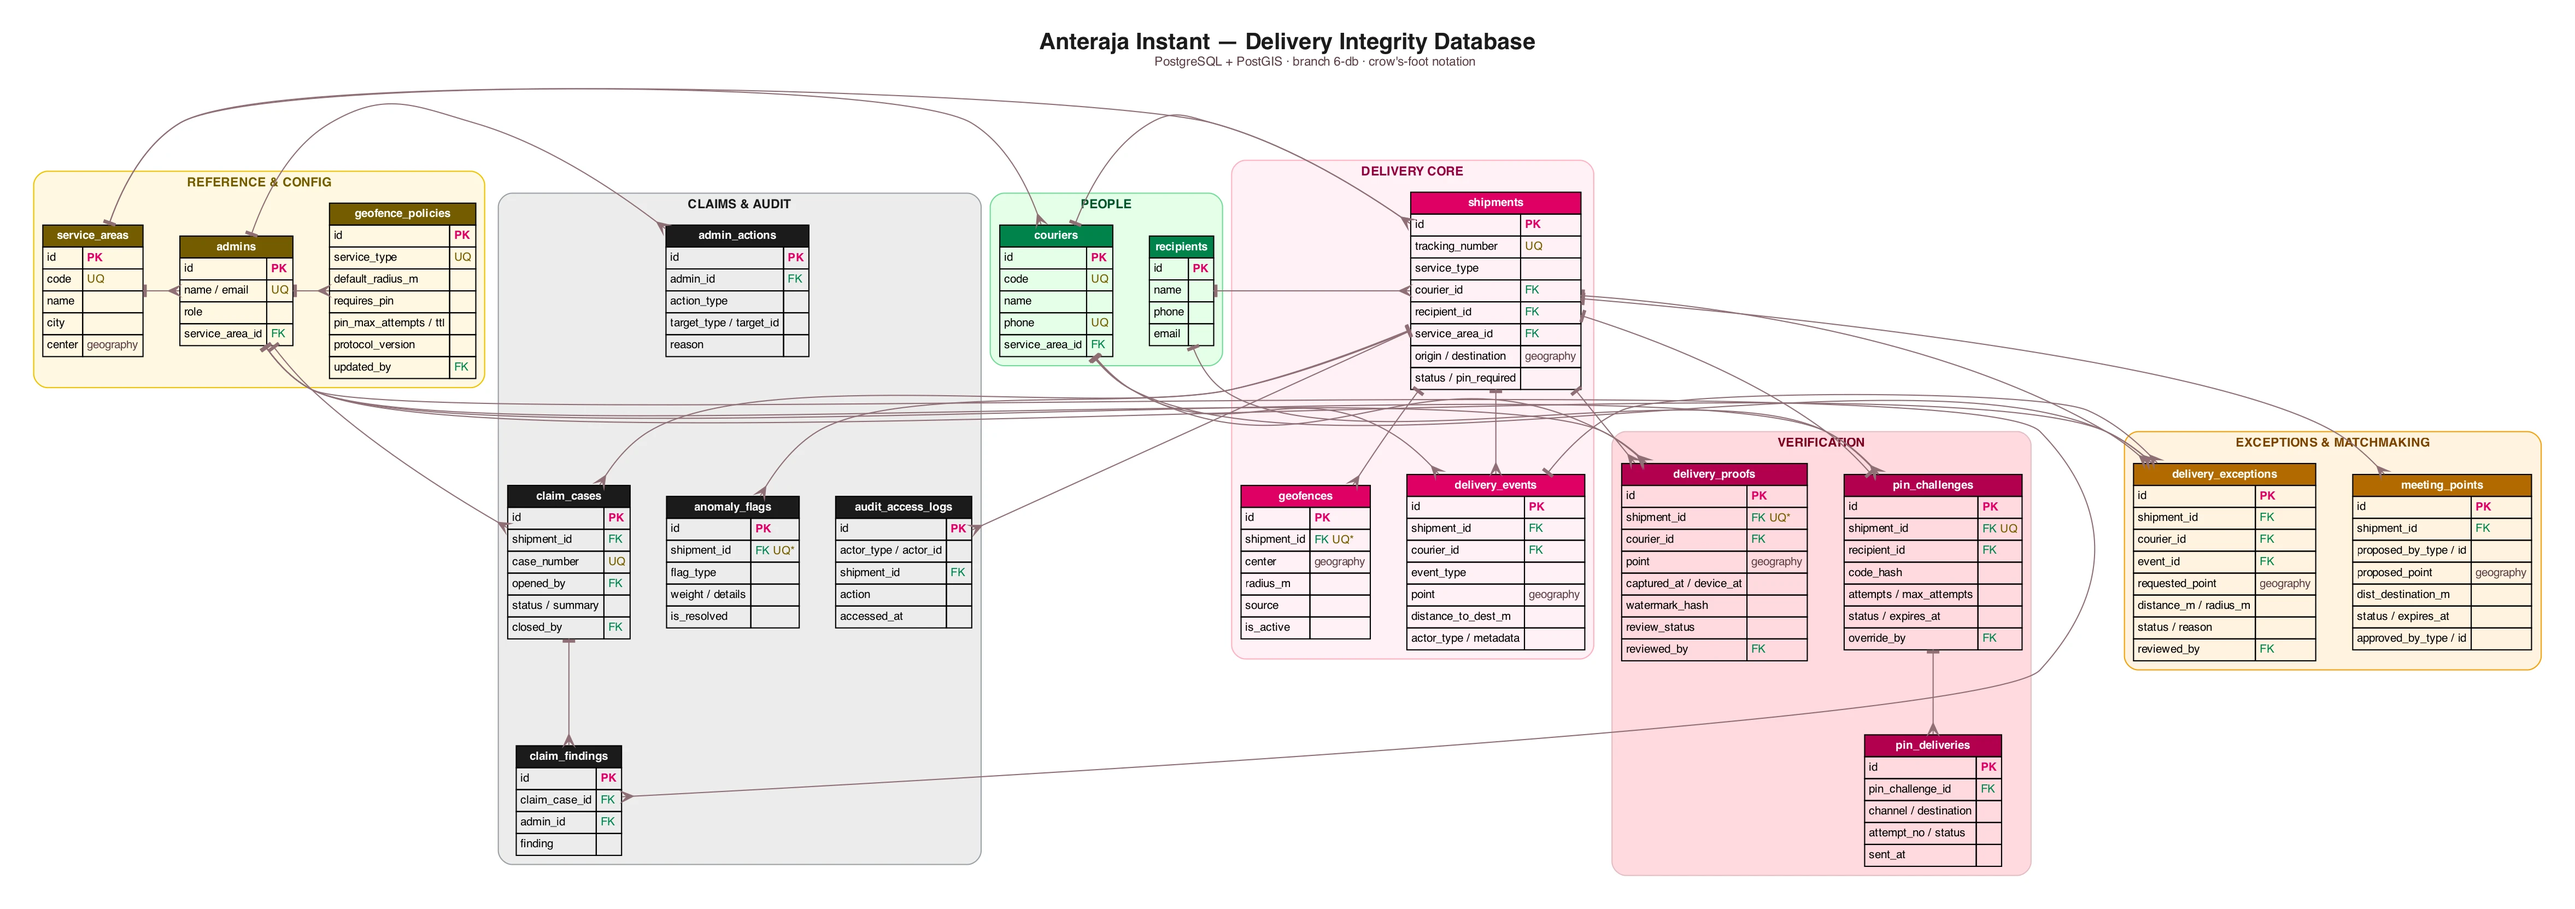
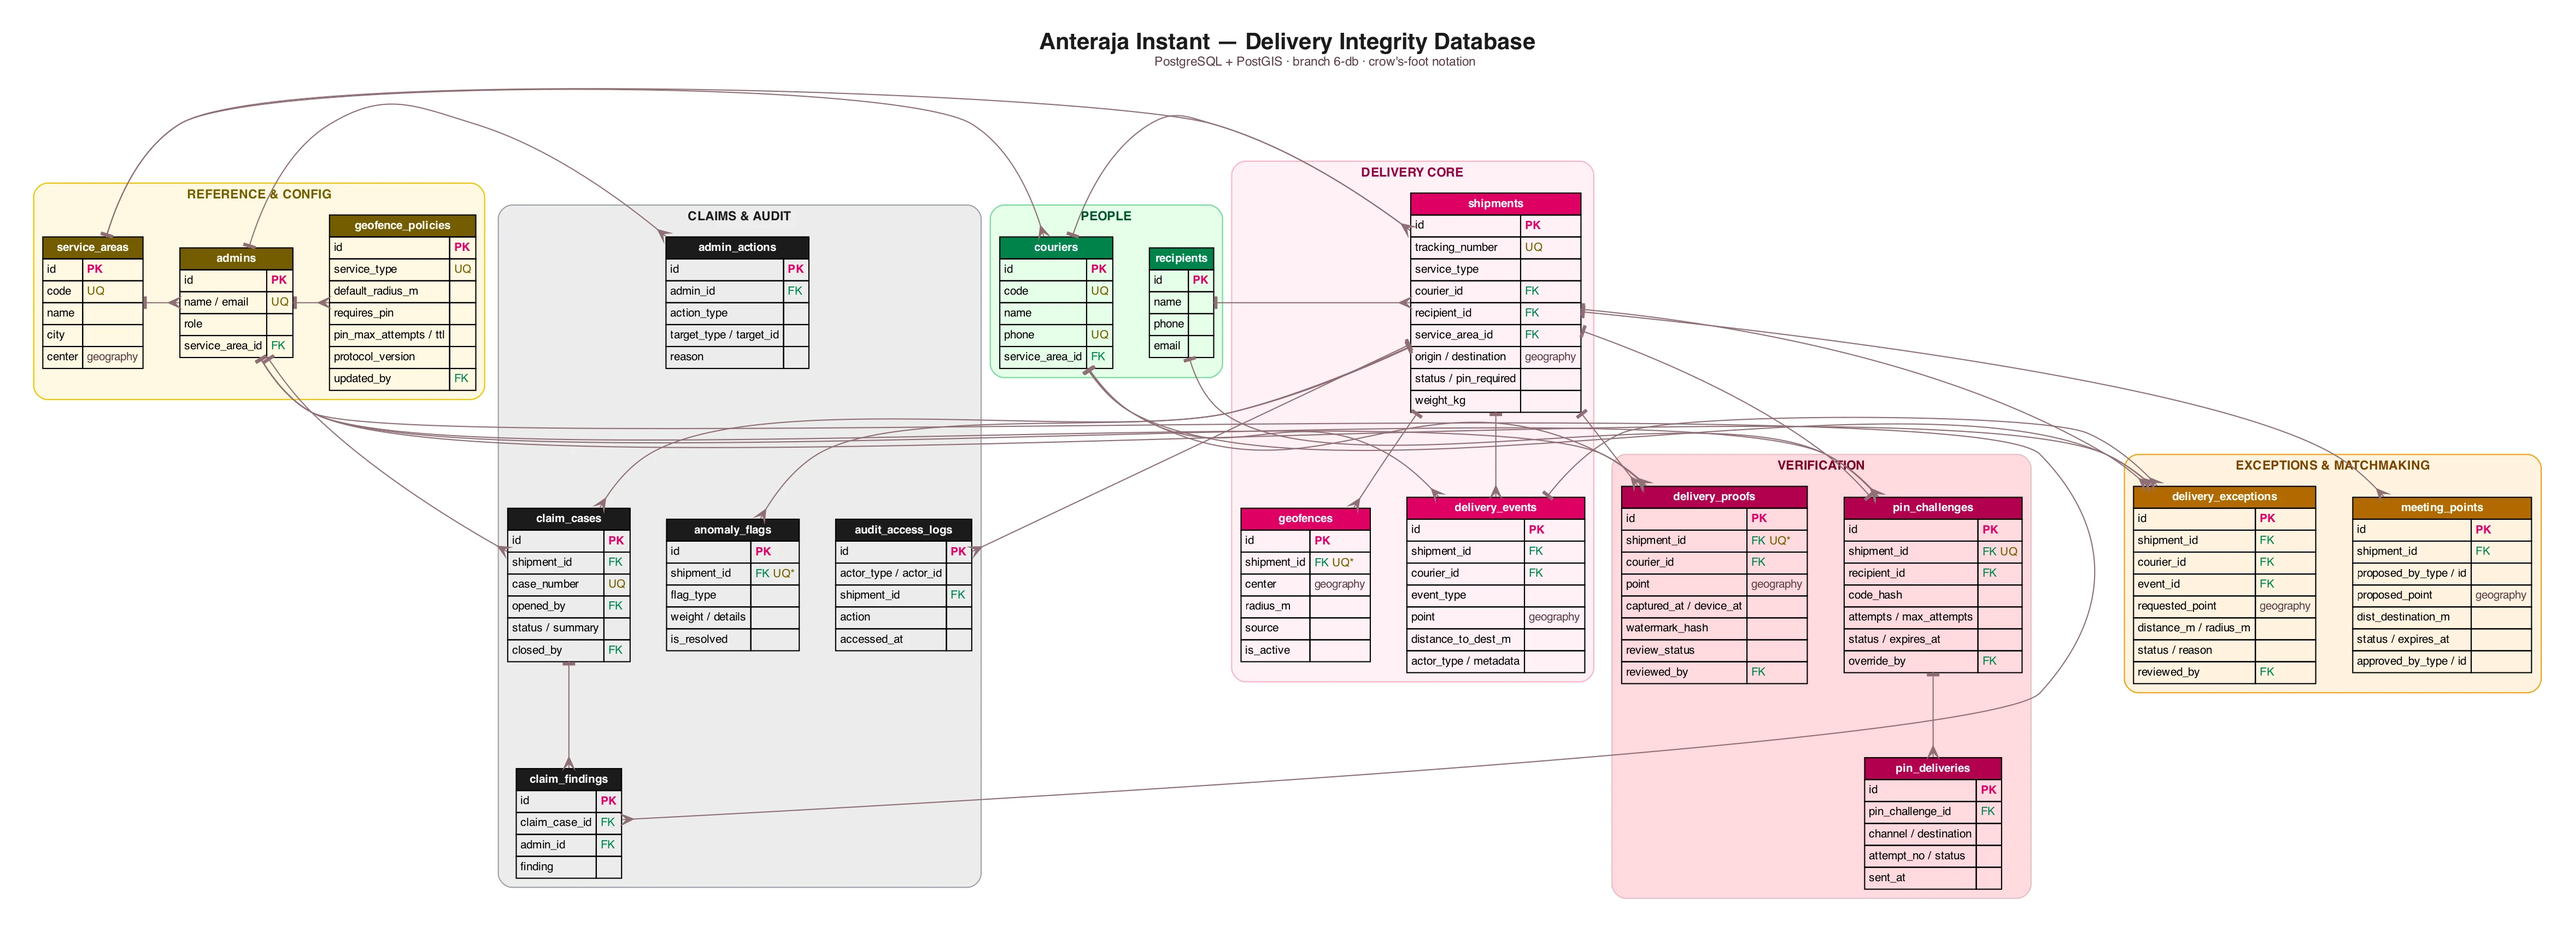
feat(db): add shipments.weight_kg for weight-based analysis

diff --git a/database/migrations/2026_10_02_000000_add_weight_kg_to_shipments.php b/database/migrations/2026_10_02_000000_add_weight_kg_to_shipments.php
@@ -1,0 +1,37 @@
+<?php
+
+use Illuminate\Database\Migrations\Migration;
+use Illuminate\Database\Schema\Blueprint;
+use Illuminate\Support\Facades\DB;
+use Illuminate\Support\Facades\Schema;
+
+return new class extends Migration
+{
+    /**
+     * Deterministic demo weight (0.50-29.99 kg) derived from the tracking
+     * number, so this migration and both seed scripts agree on every row.
+     */
+    private const WEIGHT_EXPRESSION = "round((0.50 + (abs(('x' || substr(md5(tracking_number), 1, 8))::bit(32)::int) % 2950) / 100.0)::numeric, 2)";
+
+    public function up(): void
+    {
+        if (Schema::hasColumn('shipments', 'weight_kg')) {
+            return;
+        }
+
+        Schema::table('shipments', function (Blueprint $table) {
+            $table->decimal('weight_kg', 6, 2)->default(1.00);
+        });
+
+        DB::statement('ALTER TABLE shipments ADD CONSTRAINT shipments_weight_kg_check CHECK (weight_kg > 0)');
+
+        DB::statement('UPDATE shipments SET weight_kg = '.self::WEIGHT_EXPRESSION);
+    }
+
+    public function down(): void
+    {
+        Schema::table('shipments', function (Blueprint $table) {
+            $table->dropColumn('weight_kg');
+        });
+    }
+};

diff --git a/app/Models/Shipment.php b/app/Models/Shipment.php
@@ -14,7 +14,7 @@ class Shipment extends Model
     protected $fillable = [
         'tracking_number', 'service_type', 'courier_id', 'recipient_id',
         'service_area_id', 'origin', 'destination', 'destination_address',
-        'status', 'pin_required', 'cod_amount', 'delivered_at',
+        'status', 'pin_required', 'cod_amount', 'weight_kg', 'delivered_at',
     ];
 
     protected function casts(): array
@@ -22,6 +22,7 @@ class Shipment extends Model
         return [
             'pin_required' => 'boolean',
             'cod_amount' => 'integer',
+            'weight_kg' => 'decimal:2',
             'delivered_at' => 'datetime',
         ];
     }

diff --git a/docs/db/README.md b/docs/db/README.md
@@ -129,6 +129,7 @@ Inti pengiriman.
 | `status` | text | `pending` / `picked_up` / `in_transit` / `delivered` / `failed` |
 | `pin_required` | boolean | Ditentukan dari `service_type` |
 | `cod_amount` | integer | Nilai COD (0 bila tanpa COD) |
+| `weight_kg` | numeric(6,2) | Berat paket (kg); nilai demo deterministik dari nomor resi |
 | `delivered_at` | timestamptz | |
 
 #### `geofences`
